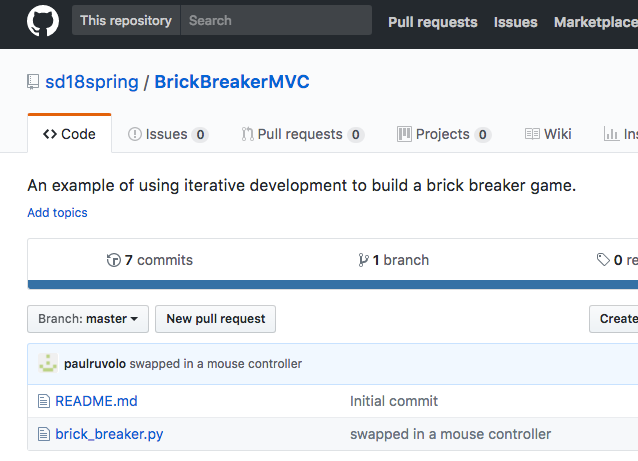
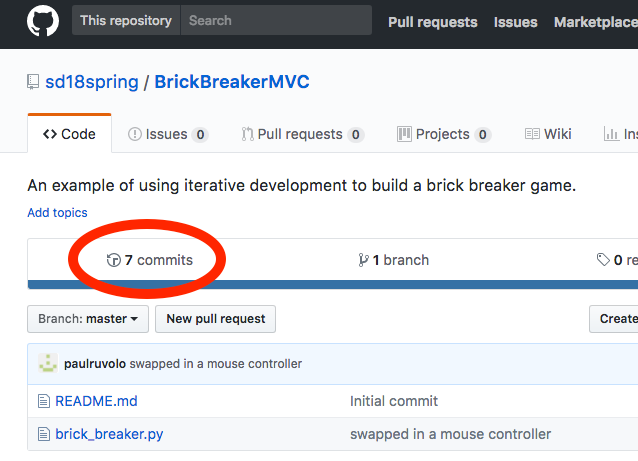
Update description
Also add callouts to images

Changed region(s): [[0.0893, 0.4555, 0.3574, 0.6681]]

diff --git a/_posts/2018-04-13-day-21.md b/_posts/2018-04-13-day-21.md
@@ -19,19 +19,10 @@ The final project [README rubric](/assignments/final-project/readme-rubric.html)
 
 Even though you are not yet done with your project and thus may not be able to complete every section of the project README, we'd like you to post your first draft of the README today to help provide context for the code review exercise.
 
-Preparing your repository for external readers and code review:
- - Post project README file.
- - Update and post system architecture diagram that you worked on day 17.
- - Solid documentation throughout, but especially the sections under review. 
-   This means:
-   - Docstring/header comment at the top of each file explaining what it does
-   - Docstring for each class and (nontrivial) function
-   - Comments for sections of code that are complex enough to need explanation
-
 
 ## Code Reviews
 
-For some motivation from all of our favorite site, please check out this quote from Jeff Atwood.
+For some motivation from everyone's favorite site, please check out this quote from Jeff Atwood.
 
 > I believe that peer code reviews are the single biggest thing you can do to improve your code.
 >
@@ -42,9 +33,28 @@ Code reviews are widely utilized in industry as a means to improve code quality.
 
 For next class, we, the instructors, will be doing a review of your team's code.  The purpose of this review is a bit different than the code reviews described above, in that we are not seeking to find every last tiny error in the code.  Rather, we will focus on providing course corrections and high-level feedback that can help you shape your work over the final weeks of the project.  As such, we'd like you to engage with the following steps to frame your code review.
 
-1.  *Make sure your code is in reasonable shape.*  For instance, remove dead code (e.g., files or functions are no longer utilized), make sure your documentation is in decent, and add relevant info to your README file.
+**1) Prepare your repository for external readers and code review**:
+ - *Post project README file*
+ - *Update and post system architecture diagram* that you worked on day 17
+ - *Solid documentation throughout*, but especially the sections under review. 
+   This means:
+   - Docstring/header comment at the top of each file explaining what it does
+   - Docstring for each class and (nontrivial) function
+   - Comments for sections of code that are complex enough to need explanation
+ - *Check project organization*, make sure your files and folder names are logical, remove dead code (e.g., files or functions are no longer utilized) and non-project junk (e.g. ```.pyc``` files, generated program outputs)
 
-2.  *Point us in the right direction.*  We have created a [Google form](https://docs.google.com/forms/d/e/1FAIpQLSf0-J_2KiffRMKniLdrqjQiJOTaHzZ4AcLW_2ClN737GVJEew/viewform) that you should use to allow us to give you the most useful feedback possible.  Please take a look at the survey so that you have a sense of what information we are asking for.<br/><br/>Some ideas for choosing code sections: code that you have questions about; code that you want to show off; code that you suspect may be fragile or buggy; code that is particularly complicated. Assure that each code section has sufficient documentation for a reviewer to figure out when it's called, what it does, and how it does it.
+
+**2) Point us in the right direction**:
+
+We have created a [Google form](https://goo.gl/forms/LQucKLrbyZOV3BEp2) that you should use to allow us to give you the most useful feedback possible.  Please take a look at the survey so that you have a sense of what information we are asking for.
+
+Some ideas for choosing code sections:
+ - code that you have questions about
+ - code that you want to show off
+ - code that you suspect may be fragile or buggy
+ - code that is particularly complicated
+
+Assure that each code section has sufficient documentation for a reviewer to figure out when it's called, what it does, and how it does it.
 
 
 ### How to link to a section of code in GitHub
